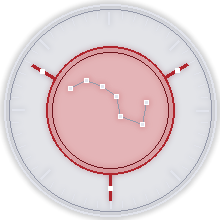
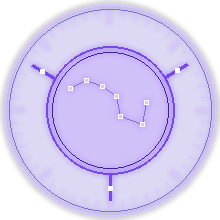
Quyền: đổi màu chủ đạo tím-lam, bàn tay X nhuộm tím (bàn tay quỷ), bỏ Minh Vương khỏi Quyền và chuyển sang Trượng (phím C)
Claude-Session: https://claude.ai/code/session_01QQj46rsF4z2ee4KuP8oJja

diff --git a/game/index.html b/game/index.html
@@ -1894,9 +1894,9 @@ function sfx(n,vol,gap){if(MUTE||!AC||AC.state!=='running'||!SBUF[n])return;cons
  const src=AC.createBufferSource();src.buffer=SBUF[n];const g=AC.createGain();g.gain.value=Math.min(1,vol==null?0.5:vol);src.connect(g);g.connect(AC._g);s.live++;voices++;src.onended=()=>{s.live--;voices--;try{g.disconnect()}catch(e){}};src.start()}
 const preDecode=i=>{try{i.decode&&i.decode().catch(()=>{})}catch(e){}};
 /* hiệu ứng gói Wuxia */
-const VFX={};['arc_sheet','wanjian_sword','petal','rulai_crater','taiji','ink_slash','ink_impact','ink_trail','bagua_vang','bua_vang','bagua_do','bua_do','qy_an','rulai_hand','rulai_dust','rulai_rock','van_vang'].forEach(n=>{const i=new Image();i.src='assets/vfx/'+n+'.png';preDecode(i);VFX[n]=i});
+const VFX={};['arc_sheet','wanjian_sword','petal','rulai_crater','taiji','ink_slash','ink_impact','ink_trail','bagua_vang','bua_vang','bagua_do','bua_do','qy_an','rulai_hand','rulai_dust','rulai_rock','van_vang','qy_van','qy_hand','qy_crater','qy_dust','qy_rock'].forEach(n=>{const i=new Image();i.src='assets/vfx/'+n+'.png';preDecode(i);VFX[n]=i});
 // VFX Tôn Ngộ Không (PixelLab pro): lưới đều, khung theo hàng; px,py = tâm (người/điểm nện/điểm trúng)
-const SPX={hl_petals:{w:338,h:183,c:8,n:23,px:-74,py:131},hl_decoy:{w:85,h:106,c:8,n:25,px:40,py:95},hl_heal:{w:304,h:179,c:8,n:28,px:149,py:89},th_bind:{w:412,h:124,c:6,n:27,px:57,py:85},th_dash:{w:406,h:183,c:6,n:20,px:57,py:150},th_eclipse:{w:465,h:168,c:6,n:28,px:57,py:113},pm_bell:{w:202,h:225,c:8,n:34,px:101,py:209},pm_palm:{w:293,h:207,c:8,n:17,px:11,py:158},qy_palm:{w:293,h:207,c:8,n:17,px:11,py:158},pm_guard:{w:312,h:321,c:8,n:25,px:159,py:307},pm_slash:{w:96,h:96,c:4,n:8,px:48,py:48},dq_cleave:{w:272,h:326,c:8,n:16,px:3,py:301},dq_triple:{w:285,h:338,c:8,n:23,px:-13,py:301},dq_ring:{w:460,h:232,c:6,n:17,px:230,py:141},wk_arc:{w:187,h:302,c:3,n:9,px:66,py:246},wk_puff2:{w:35,h:24,c:3,n:7,px:20,py:17},wk_slash:{w:192,h:193,c:3,n:9,px:75,py:107},wk_thrust:{w:232,h:80,c:3,n:7,px:29,py:19},wk_hit:{w:85,h:84,c:3,n:9,px:40,py:43},
+const SPX={hl_petals:{w:338,h:183,c:8,n:23,px:-74,py:131},hl_decoy:{w:85,h:106,c:8,n:25,px:40,py:95},hl_heal:{w:304,h:179,c:8,n:28,px:149,py:89},th_bind:{w:412,h:124,c:6,n:27,px:57,py:85},th_dash:{w:406,h:183,c:6,n:20,px:57,py:150},th_eclipse:{w:465,h:168,c:6,n:28,px:57,py:113},pm_bell:{w:202,h:225,c:8,n:34,px:101,py:209},qy_bell:{w:202,h:225,c:8,n:34,px:101,py:209},pm_palm:{w:293,h:207,c:8,n:17,px:11,py:158},qy_palm:{w:293,h:207,c:8,n:17,px:11,py:158},pm_guard:{w:312,h:321,c:8,n:25,px:159,py:307},pm_slash:{w:96,h:96,c:4,n:8,px:48,py:48},dq_cleave:{w:272,h:326,c:8,n:16,px:3,py:301},dq_triple:{w:285,h:338,c:8,n:23,px:-13,py:301},dq_ring:{w:460,h:232,c:6,n:17,px:230,py:141},wk_arc:{w:187,h:302,c:3,n:9,px:66,py:246},wk_puff2:{w:35,h:24,c:3,n:7,px:20,py:17},wk_slash:{w:192,h:193,c:3,n:9,px:75,py:107},wk_thrust:{w:232,h:80,c:3,n:7,px:29,py:19},wk_hit:{w:85,h:84,c:3,n:9,px:40,py:43},
  wk_stomp:{w:159,h:176,c:8,n:8,px:80,py:112},wk_roar:{w:260,h:275,c:8,n:8,px:41,py:194},wk_summon:{w:251,h:259,c:8,n:8,px:125,py:202},wk_whirl:{w:197,h:213,c:8,n:8,px:101,py:121},wk_cloud:{w:140,h:104,c:4,n:10,px:70,py:52},wk_puff:{w:97,h:92,c:3,n:9,px:52,py:44},
  sw_a:{w:140,h:45,c:3,n:8,px:68,py:44},swhit:{w:64,h:64,c:3,n:6,px:32,py:32},k5a_front:{w:82,h:103,c:3,n:6,px:-36,py:106},k5b_front:{w:124,h:163,c:3,n:6,px:22,py:151},wanjian_sword:{w:96,h:96,c:1,n:1,px:48,py:48},set_ring:{w:190,h:80,c:4,n:12,px:95,py:40},set_bolt:{w:80,h:240,c:4,n:12,px:40,py:228},set_bolt_vang:{w:80,h:240,c:4,n:12,px:40,py:228},qy_hit:{w:64,h:64,c:3,n:8,px:32,py:32},set_no_vang:{w:240,h:140,c:4,n:12,px:120,py:100},set_bolt_do:{w:80,h:240,c:4,n:12,px:40,py:228},set_no_do:{w:240,h:140,c:4,n:12,px:120,py:100},set_len_do:{w:240,h:230,c:4,n:12,px:120,py:208},k5c_pro:{w:196,h:202,c:4,n:15,px:89,py:104},k5c_behind:{w:360,h:224,c:4,n:15,px:180,py:154},k5c_front:{w:360,h:224,c:4,n:15,px:180,py:154},hv_mark:{w:128,h:66,c:5,n:17,px:64,py:33},hv_vortex_b:{w:191,h:92,c:4,n:14,px:96,py:98},hv_vortex_f:{w:209,h:100,c:6,n:28,px:106,py:100},hv_ring:{w:137,h:131,c:5,n:19,px:69,py:83},tx_in:{w:365,h:604,c:11,n:30,px:215,py:520},tx_loop:{w:309,h:278,c:13,n:60,px:155,py:196},tx_out:{w:304,h:269,c:11,n:11,px:153,py:187},vk_e:{w:838,h:316,c:4,n:46,px:198,py:213},hp_guard:{w:128,h:128,c:1,n:1,px:64,py:64},hp_imp:{w:48,h:48,c:8,n:8,px:24,py:24},hp_star:{w:64,h:64,c:10,n:10,px:32,py:32},wx_slash:{w:96,h:96,c:4,n:8,px:48,py:48},zs1:{w:101,h:87,c:3,n:9,px:44,py:102},zs2:{w:108,h:122,c:3,n:7,px:32,py:117},zs3:{w:87,h:88,c:3,n:9,px:30,py:90},slash_el:{w:48,h:80,c:3,n:8,px:24,py:40},swqi:{w:64,h:48,c:3,n:6,px:36,py:24},sw_arc:{w:96,h:96,c:3,n:7,px:46,py:49},
  cA_behind:{w:132,h:128,c:3,n:6,px:74,py:136},cA_front:{w:73,h:14,c:2,n:4,px:-39,py:57},cB_behind:{w:90,h:124,c:3,n:6,px:17,py:130},cB_front:{w:104,h:162,c:3,n:6,px:13,py:148},cC_behind:{w:151,h:23,c:3,n:7,px:76,py:62},cC_front:{w:191,h:72,c:3,n:7,px:100,py:65},sw_b:{w:62,h:90,c:3,n:9,px:6,py:79},sw_c:{w:176,h:148,c:4,n:10,px:88,py:74}};  // combo kiếm: cA/cB/cC theo ảnh chủ game, lớp behind (sau người) + front (trước người), mốc = chân
@@ -2342,25 +2342,21 @@ const WEAPONS={
   /* Thiên Cương Môn (25/11): động tác Quyền v2 (A tay xa, B tay gần, C quét chân), VFX dùng lại tài nguyên có sẵn (vệt wx_slash, vành k5c_pro dẹt, vòng ring, đạn crescent). Không PixelLab. Số liệu TẠM, chưa cân bằng. */
   {id:'y0',name:'Thiên Cương Quyền',g:'拳',kind:'basic',cd:0.45,range:85,desc:'Liên quyền: tay trước đấm thẳng, tay sau đấm xoay hông, nhát thứ ba hạ thấp quét chân quét ngang mọi phía.',
    cast(tg,s){startFist(tg,s)}},
-  {id:'y1',hotkey:'Q',power:22,name:'Cương Khí Phá Không',g:'氣',kind:'active',cd:5,mp:16,range:340,desc:'Tung quyền khí trắng xuyên qua năm kẻ địch trước mặt, đẩy lùi.',up:'+25% sát thương, -6% hồi chiêu',
+  {id:'y1',hotkey:'Q',power:22,name:'Cương Khí Phá Không',g:'氣',kind:'active',cd:5,mp:16,range:340,desc:'Tung quyền khí tím xuyên qua năm kẻ địch trước mặt, đẩy lùi.',up:'+25% sát thương, -6% hồi chiêu',
    cast(tg,l){const a=angTo(tg),dmg=this.power*lv(l)*pw();P.avAnim='attack';swing(a,1);sfx('sword_wave',0.45,0.1);
-    later(0.22,()=>{if(vok('qy_hit')){fx({k:'sp',s:'qy_hit',x:P.x+Math.cos(a)*34,y:P.y-22+Math.sin(a)*34,sc:(1.5)*1.45,T:0.26,al:1});for(let i=1;i<=4;i++)later(i*0.07,()=>fx({k:'sp',s:'qy_hit',x:P.x+Math.cos(a)*(34+i*62),y:P.y-22+Math.sin(a)*(34+i*62),sc:(0.7+i*0.12)*1.45,T:0.2,al:0.7}),null)}shoot(P.x+Math.cos(a)*30,P.y-18+Math.sin(a)*30,a,560,{dmg,pierce:5,r:26,life:0.55,kind:'crescent',c:'#ffe6de',o:H({kb:90,stop:0.03})});G.shake=Math.max(G.shake||0,3)},'h')}},
+    later(0.22,()=>{if(vok('qy_hit')){fx({k:'sp',s:'qy_hit',x:P.x+Math.cos(a)*34,y:P.y-22+Math.sin(a)*34,sc:(1.5)*1.45,T:0.26,al:1});for(let i=1;i<=4;i++)later(i*0.07,()=>fx({k:'sp',s:'qy_hit',x:P.x+Math.cos(a)*(34+i*62),y:P.y-22+Math.sin(a)*(34+i*62),sc:(0.7+i*0.12)*1.45,T:0.2,al:0.7}),null)}shoot(P.x+Math.cos(a)*30,P.y-18+Math.sin(a)*30,a,560,{dmg,pierce:5,r:26,life:0.55,kind:'crescent',c:'#d8ccff',o:H({kb:90,stop:0.03})});G.shake=Math.max(G.shake||0,3)},'h')}},
   {id:'y2',hotkey:'F',power:30,name:'Chấn Địa Quyền',g:'震',kind:'active',cd:9,mp:20,range:200,desc:'Hạ thấp người đấm xuống đất, sóng chấn lan ra hất văng và làm choáng mọi quái trước mặt.',up:'+25% sát thương, -6% hồi chiêu',
    cast(tg,l){const a=angTo(tg),dmg=this.power*lv(l)*pw();P.avAnim='attack3';swing(a,1);sfx('rulai_impact',0.5,0.1);
     later(0.3,()=>{const cx=P.x+Math.cos(a)*95,cy=P.y+Math.sin(a)*95;circ(cx,cy,165*Ar(),dmg,H({kb:210,stun:0.4}),null);fx({k:'ring',x:cx,y:cy,r0:20,r1:165,c:'#ffffff',T:0.35});fx({k:'ring',x:cx,y:cy,r0:10,r1:120,c:'#b8323a',T:0.45});if(vok('qy_an'))fx({k:'img',n:'qy_an',x:cx,y:cy+4,s0:0.35,s1:165*2.3*Ar()/220,sy:0.55,spin:1.3,T:0.95,al:0.9,gr:1});if(vok('qy_hit')){fx({k:'sp',s:'qy_hit',x:cx,y:cy-6,sc:(2.4)*1.45,T:0.3,al:1});for(let i=0;i<6;i++){const an=i*TAU/6+0.3;later(0.04*i,()=>fx({k:'sp',s:'qy_hit',x:cx+Math.cos(an)*100*Ar(),y:cy+Math.sin(an)*55*Ar(),sc:(1.1)*1.45,T:0.24,al:0.85}),null)}}if(vok('wk_crack'))fx({k:'img',n:'wk_crack',x:cx,y:cy+8,s0:1.2,s1:1.7,sy:1,T:0.8,al:0.9,gr:1});G.shake=Math.max(G.shake||0,10)},'h')}},
-  {id:'y3',hotkey:'C',power:30,name:'Minh Vương Chưởng Ấn',g:'王',kind:'active',cd:18,mp:32,range:380,desc:'Minh Vương hiện thân sau lưng (hình Kim Cương Tự của gói Wuxia), rồi trong 3 giây chưởng ấn vàng bay ra liên tục: mỗi 0,22 giây một chưởng xuyên qua 3 kẻ địch, đẩy lùi.',up:'+25% sát thương, +0,5 giây',
-   /* 25/11 (chủ game: "Minh Vương hiện ra rồi các bàn tay/chưởng ấn bay ra liên tục", skill sát thương): pm_guard làm Minh Vương, đạn kind:'palmseal' vẽ khung pm_palm bay theo hướng đánh. Số liệu TẠM. */
-   cast(tg,l){const dmg=this.power*lv(l)*pw(),dur=3+0.5*(l-1);notice('Minh Vương Chưởng Ấn');P.inv=Math.max(P.inv,0.5);sfx('rulai_fall',0.5,0.1);dqFx('pm_guard',P.x,P.y+8,0,1.05,dur+0.4,0,24,{follow:1,noRot:1,gr:1,al:0.9});let k=0;
-    for(let t=0.7;t<=dur+0.4;t+=0.22){const kk=k++;later(t,()=>{const e=nearest(P.x,P.y,440),a=angTo(e||tg)+rnd(-0.1,0.1);P.avAnim=kk%2?'attack2':'attack';swing(a,kk%2?-1:1);P.runSwing=true;if(Math.abs(Math.cos(a))>0.15)P.facing=Math.cos(a)>=0?1:-1;shoot(P.x+Math.cos(a)*34,P.y-36+Math.sin(a)*20,a,500,{dmg,pierce:3,r:34,life:0.8,kind:'palmseal',o:H({kb:120,stop:0.03})});if(vok('qy_hit'))fx({k:'sp',s:'qy_hit',x:P.x+Math.cos(a)*40,y:P.y-36+Math.sin(a)*20,sc:1.1*1.45,T:0.18,al:0.9});if(kk%3===0)G.shake=Math.max(G.shake||0,3)},'h')}}},
-  {id:'kimchung',start:1,name:'Kim Chung Hộ Thể',g:'鐘',kind:'passive',desc:'Khi bị đánh (hồi 12 giây): chuông vàng Kim Cương Tự úp quanh người 3 giây, giảm 45% sát thương nhận vào, phản lại 50% sát thương cho kẻ đánh, và chấn lùi quái xung quanh.'},
+  {id:'kimchung',start:1,name:'Kim Chung Hộ Thể',g:'鐘',kind:'passive',desc:'Khi bị đánh (hồi 12 giây): chuông tím úp quanh người 3 giây, giảm 45% sát thương nhận vào, phản lại 50% sát thương cho kẻ đánh, và chấn lùi quái xung quanh.'},
   {id:'y6',hotkey:'X',power:34,name:'Thiên Cương Liên Hoàn',g:'罡',kind:'ult',cd:24,range:240,desc:'Dồn cương khí tung loạt quyền liên hoàn trong 3 giây: mỗi 0,2 giây một cú đấm quét vòng cung trước mặt, đẩy lùi quái gần nhất. Kết thúc bằng một chưởng ấn cương khí khổng lồ từ trên trời hạ xuống chỗ đông quái nhất (Như Lai thần chưởng), in vết bàn tay xuống đất, đá và bụi bắn tung (gấp 2,4 lần một cú đấm, choáng 0,6 giây).',up:'+25% sát thương, +0,5 giây',
    cast(tg,l){const dmg=this.power*lv(l)*pw(),dur=3+0.5*(l-1);notice('Thiên Cương Liên Hoàn');P.inv=Math.max(P.inv,0.4);sfx('rulai_fall',0.45,0.1);let k=0;if(vok('qy_an'))fx({k:'img',n:'qy_an',x:P.x,y:P.y+6,s0:0.3,s1:0.62,sy:0.5,spin:2.4,T:dur+0.3,al:0.85,gr:1});
-    for(let t=0.2;t<=dur;t+=0.2){const kk=k++;later(t,()=>{const e=nearest(P.x,P.y,300),a2=angTo(e||tg);P.avAnim=kk%2?'attack2':'attack';swing(a2,kk%2?-1:1);P.runSwing=true;if(Math.abs(Math.cos(a2))>0.15)P.facing=Math.cos(a2)>=0?1:-1;arc(P.x,P.y-8,a2,150*Ar(),1.7,dmg*0.3,H({kb:70,stop:0.02,nofx:1}),'#fff0e8',kk%2?-1:1);if(vok('qy_hit'))fx({k:'sp',s:'qy_hit',x:P.x+Math.cos(a2)*(48+rnd(-8,14)),y:P.y-30+Math.sin(a2)*24+rnd(-10,10),sc:(0.9+Math.random()*0.4)*1.45,T:0.2,al:0.95});if(kk%3===0){fx({k:'ring',x:P.x+Math.cos(a2)*50,y:P.y-10+Math.sin(a2)*50,r0:10,r1:60,c:'#ffd0c8',T:0.2});G.shake=Math.max(G.shake||0,3)}},'h')}
+    for(let t=0.2;t<=dur;t+=0.2){const kk=k++;later(t,()=>{const e=nearest(P.x,P.y,300),a2=angTo(e||tg);P.avAnim=kk%2?'attack2':'attack';swing(a2,kk%2?-1:1);P.runSwing=true;if(Math.abs(Math.cos(a2))>0.15)P.facing=Math.cos(a2)>=0?1:-1;arc(P.x,P.y-8,a2,150*Ar(),1.7,dmg*0.3,H({kb:70,stop:0.02,nofx:1}),'#e4dcff',kk%2?-1:1);if(vok('qy_hit'))fx({k:'sp',s:'qy_hit',x:P.x+Math.cos(a2)*(48+rnd(-8,14)),y:P.y-30+Math.sin(a2)*24+rnd(-10,10),sc:(0.9+Math.random()*0.4)*1.45,T:0.2,al:0.95});if(kk%3===0){fx({k:'ring',x:P.x+Math.cos(a2)*50,y:P.y-10+Math.sin(a2)*50,r0:10,r1:60,c:'#b8a4ff',T:0.2});G.shake=Math.max(G.shake||0,3)}},'h')}
     /* 25/11 (chủ game: "thấy có vfx bàn tay"): đòn kết = CHƯỞNG ẤN cương khí khổng lồ (bàn tay Phật gói Wuxia nhuộm đỏ chu sa - trắng, `qy_palm`) ép xuống chỗ đông quái nhất; sát thương 2,4 lần một cú đấm, đẩy lùi, choáng 0,6 s */
-    later(dur+0.25,()=>{const c=densest(P.x,P.y,340)||{x:P.x+Math.cos(angTo(tg))*180,y:P.y+Math.sin(angTo(tg))*180};const a3=Math.atan2(c.y-P.y,c.x-P.x);P.avAnim='attack';swing(a3,1);P.av=P.avTotal=1.45;P.runSwing=false;P._xp={t0:G.t};if(Math.abs(Math.cos(a3))>0.15)P.facing=Math.cos(a3)>=0?1:-1;sfx('rulai_fall',0.6,0.1);/* 25/11 (chủ game): thay vòng vàng bằng chữ VẠN (卍) hiện trên đầu lúc giơ tay, sau đó đập tay thì Như Lai Thần Chưởng hiện */if(vok('van_vang'))fx({k:'img',n:'van_vang',x:P.x,y:P.y-122,s0:1,s1:1,sy:1,T:0.95,al:1});for(const d of[0,0.22])later(d,()=>{for(let i=0;i<6;i++)part(P.x+rnd(-26,26),P.y-60+rnd(-10,10),rnd(-10,10),rnd(-70,-30),rnd(0.35,0.6),rnd(3,5),'rgba(255,214,120,.9)',0)},'h');
+    later(dur+0.25,()=>{const c=densest(P.x,P.y,340)||{x:P.x+Math.cos(angTo(tg))*180,y:P.y+Math.sin(angTo(tg))*180};const a3=Math.atan2(c.y-P.y,c.x-P.x);P.avAnim='attack';swing(a3,1);P.av=P.avTotal=1.45;P.runSwing=false;P._xp={t0:G.t};if(Math.abs(Math.cos(a3))>0.15)P.facing=Math.cos(a3)>=0?1:-1;sfx('rulai_fall',0.6,0.1);/* 25/11 (chủ game): thay vòng vàng bằng chữ VẠN (卍) hiện trên đầu lúc giơ tay, sau đó đập tay thì Như Lai Thần Chưởng hiện */if(vok('qy_van'))fx({k:'img',n:'qy_van',x:P.x,y:P.y-122,s0:1,s1:1,sy:1,T:0.95,al:1});for(const d of[0,0.22])later(d,()=>{for(let i=0;i<6;i++)part(P.x+rnd(-26,26),P.y-60+rnd(-10,10),rnd(-10,10),rnd(-70,-30),rnd(0.35,0.6),rnd(3,5),'rgba(176,140,255,.9)',0)},'h');
      /* 25/11 (chủ game: chưởng ấn từ trên trời rót xuống, rồi bàn tay lún sâu dưới đất): zone qypalm = bàn tay đỏ từ từ hạ 1,1 s (to dần, bóng và vòng báo trên đất), ép xuống, lún sâu bị mặt đất cắt, hố nứt + vết nứt đỏ lan ra */
      addZone({kind:'qypalm',T:1.9,src:'h',x:c.x,y:c.y,rot:a3});
-     later(0.95,()=>{sfx('rulai_impact',0.85,0.1);G.flash=Math.max(G.flash||0,0.2);burst(c.x,c.y-20,'#ffd860',46);if(G.decals.length<40)G.decals.push({img:'rulai_crater',x:c.x,y:c.y-5,w:422,h:236,t:0,T:2.9,pop:1});burst(c.x,c.y-6,'#d8c8a0',30);circ(c.x,c.y,200*Ar(),dmg*2.4,H({kb:300,stun:0.6,stop:0.05}),null);fx({k:'ring',x:c.x,y:c.y+14,r0:20,r1:200,c:'#ffc84a',T:0.45});fx({k:'ring',x:c.x,y:c.y+14,r0:10,r1:150,c:'#ab7d4f',T:0.5});G.shake=Math.max(G.shake||0,14)},'h')},'h')}}
+     later(0.95,()=>{sfx('rulai_impact',0.85,0.1);G.flash=Math.max(G.flash||0,0.2);burst(c.x,c.y-20,'#a884ff',46);if(G.decals.length<40)G.decals.push({img:'qy_crater',x:c.x,y:c.y-5,w:422,h:236,t:0,T:2.9,pop:1});burst(c.x,c.y-6,'#8068c8',30);circ(c.x,c.y,200*Ar(),dmg*2.4,H({kb:300,stun:0.6,stop:0.05}),null);fx({k:'ring',x:c.x,y:c.y+14,r0:20,r1:200,c:'#9a70ff',T:0.45});fx({k:'ring',x:c.x,y:c.y+14,r0:10,r1:150,c:'#4c3a9a',T:0.5});G.shake=Math.max(G.shake||0,14)},'h')},'h')}}
  ]},
  dao:{name:'Đao',g:'刀',role:'Bạo kích, diện rộng',tr:'Hỏa đao nặng, chém xuyên, quét rộng',kit:[
   /* Trảm Yêu Môn (24/11): VFX gói Wuxia Xích Diễm Đao Môn (xuất từ Godot: dq_cleave, dq_triple, dq_ring). Hướng bake: đông; dqFx lật theo hướng chém. */
@@ -2393,6 +2389,10 @@ const WEAPONS={
     later(0.38,()=>{const cx=P.x+Math.cos(a)*165,cy=P.y+Math.sin(a)*165;circ(cx,cy,155*Ar(),dmg,H({kb:260,stun:0.45}),null);G.shake=Math.max(G.shake||0,12)},'h')}},
   {id:'p3',name:'Hộ Thể Kim Cương',g:'護',kind:'active',cd:12,mp:16,range:140,desc:'Tự kích hoạt khi bị vây: sóng vàng đẩy lùi quái sát người.',up:'+25% sát thương',
    cast(tg,l){swing(0,1);fx({k:'ring',x:P.x,y:P.y,r0:20,r1:130,c:'#ffd36a',T:0.35});circ(P.x,P.y,125*Ar(),14*lv(l)*pw(),H({kb:230}),null)}},
+  {id:'p4',hotkey:'C',power:30,name:'Minh Vương Chưởng Ấn',g:'王',kind:'active',cd:18,mp:32,range:380,desc:'Minh Vương hiện thân sau lưng (hình Kim Cương Tự của gói Wuxia), rồi trong 3 giây chưởng ấn vàng bay ra liên tục: mỗi 0,22 giây một chưởng xuyên qua 3 kẻ địch, đẩy lùi.',up:'+25% sát thương, +0,5 giây',
+   /* 25/11 (chủ game: "Minh Vương hiện ra rồi các bàn tay/chưởng ấn bay ra liên tục", skill sát thương): pm_guard làm Minh Vương, đạn kind:'palmseal' vẽ khung pm_palm bay theo hướng đánh. Số liệu TẠM. */
+   cast(tg,l){const dmg=this.power*lv(l)*pw(),dur=3+0.5*(l-1);notice('Minh Vương Chưởng Ấn');P.inv=Math.max(P.inv,0.5);sfx('rulai_fall',0.5,0.1);dqFx('pm_guard',P.x,P.y+8,0,1.05,dur+0.4,0,24,{follow:1,noRot:1,gr:1,al:0.9});let k=0;
+    for(let t=0.7;t<=dur+0.4;t+=0.22){const kk=k++;later(t,()=>{const e=nearest(P.x,P.y,440),a=angTo(e||tg)+rnd(-0.1,0.1);P.avAnim=kk%2?'attack2':'attack';swing(a,kk%2?-1:1);P.runSwing=true;if(Math.abs(Math.cos(a))>0.15)P.facing=Math.cos(a)>=0?1:-1;shoot(P.x+Math.cos(a)*34,P.y-36+Math.sin(a)*20,a,500,{dmg,pierce:3,r:34,life:0.8,kind:'palmseal',o:H({kb:120,stop:0.03})});if(vok('qy_hit'))fx({k:'sp',s:'qy_hit',x:P.x+Math.cos(a)*40,y:P.y-36+Math.sin(a)*20,sc:1.1*1.45,T:0.18,al:0.9});if(kk%3===0)G.shake=Math.max(G.shake||0,3)},'h')}}},
   {id:'p6',hotkey:'X',power:40,name:'Bất Động Minh Vương Thân',g:'王',kind:'ult',cd:26,range:240,desc:'Minh Vương hiện thân hộ pháp: miễn thương 3,5 giây, mỗi 0,7 giây chấn một vòng đẩy lùi và làm choáng ngắn quái xung quanh.',up:'+25% sát thương, +0,5 giây',
    cast(tg,l){const dmg=this.power*lv(l)*pw(),dur=3.5+0.5*(l-1);P.inv=Math.max(P.inv,dur);notice('Bất Động Minh Vương Thân');dqFx('pm_guard',P.x,P.y+8,0,1.05,dur,0,24,{follow:1,noRot:1,gr:1,al:0.9});sfx('rulai_fall',0.5,0.1);
     for(let t=0.5;t<dur;t+=0.7)later(t,()=>{circ(P.x,P.y,200*Ar(),dmg,H({kb:150,stun:0.2}),null);fx({k:'ring',x:P.x,y:P.y,r0:30,r1:200,c:'#ffe08a',T:0.4});G.shake=Math.max(G.shake||0,5)},'h')}}
@@ -2917,7 +2917,7 @@ function collect(o){
 const xpNeed=()=>Math.round(10+G.level*7+G.level*G.level*0.8);
 function heal(v,quiet){const b=P.hp;P.hp=Math.min(S.hp,P.hp+v);if(!quiet&&P.hp-b>=1)num(P.x,P.y-60,'+'+Math.round(P.hp-b),'h')}
 /* 25/11 nội tại Quyền Kim Chung Hộ Thể (pm_bell): bị đánh thì úp chuông 3 s (giảm 45% sát thương, phản 50%), chấn lùi quái quanh người; hồi 12 s */
-function kimChung(){P.kcUntil=G.t+3;P.kcNext=G.t+12;dqFx('pm_bell',P.x,P.y+6,0,0.95,3,0,33,{follow:1,noRot:1,al:0.92});sfx('rulai_impact',0.5,0.08);circ(P.x,P.y,150*Ar(),14*pw(),H({kb:200,stun:0.18}),null);fx({k:'ring',x:P.x,y:P.y,r0:20,r1:150,c:'#ffe08a',T:0.4});G.shake=Math.max(G.shake||0,5)}
+function kimChung(){P.kcUntil=G.t+3;P.kcNext=G.t+12;dqFx('qy_bell',P.x,P.y+6,0,0.95,3,0,33,{follow:1,noRot:1,al:0.92});sfx('rulai_impact',0.5,0.08);circ(P.x,P.y,150*Ar(),14*pw(),H({kb:200,stun:0.18}),null);fx({k:'ring',x:P.x,y:P.y,r0:20,r1:150,c:'#b49cff',T:0.4});G.shake=Math.max(G.shake||0,5)}
 function hurtPlayer(d,src){
  if(P.inv>0||P.hidden>0||P.transT>0||G.state!=='play')return;
  if(G.training&&G.trGod)return;
@@ -3571,16 +3571,16 @@ function drawZone(z){
   c.save();c.translate(z.x,z.y);c.scale(1,0.4);c.globalAlpha=0.35*Math.min(1,k*1.4)*(z.t<FALL?1:al);c.fillStyle='#0b1226';c.beginPath();c.arc(0,0,22+60*k,0,TAU);c.fill();c.restore();
   if(al>0.01&&CKI.complete&&CKI.naturalWidth){c.save();c.globalAlpha=al;c.imageSmoothingEnabled=false;c.translate(Math.round(z.x),Math.round(ty));c.scale(1.3,1.3);c.drawImage(CKI,-CKI.naturalWidth/2,-CKI.naturalHeight);c.restore()}
   else if(al>0.01){c.save();c.globalAlpha=al;c.translate(z.x,ty);c.scale(sc,sc);c.rotate(Math.PI/2);c.translate(-(w[0]-w[2]),0);drawWeaponOutline(c,art,1.2/sc);drawWeaponArt(c,art,0,0,1);c.restore()}}
- else if(z.kind==='qypalm'&&vok('rulai_hand')){/* 25/11 NHƯ LAI THẦN CHƯỞNG (gói Wuxia 04_Rulai): chủ game chê "không giống": bản gốc chỉ thấy bàn tay ~0,2 s cuối và nằm ngang. Nay: cột hào quang vàng từ trời, bàn tay VÀNG khổng lồ dựng đứng (ngón hướng lên) hiện sớm, lơ lửng to dần rồi giáng xuống; chạm đất: chớp vàng, vết chưởng in sáng, đá và bụi bắn ra */const D=0.95,tt=z.t;
-  if(tt<D){c.save();c.translate(z.x,z.y);c.scale(1,0.4);c.globalAlpha=0.4*Math.pow(tt/D,3);c.fillStyle='#2a1200';c.beginPath();c.arc(0,0,40+190*Math.pow(tt/D,3),0,TAU);c.fill();c.globalCompositeOperation='lighter';c.globalAlpha=0.6*(0.3+0.7*(1-Math.pow(tt/D,3)));c.strokeStyle='#ffc84a';c.lineWidth=3;c.beginPath();c.arc(0,0,220+80*(1-Math.pow(tt/D,3)),0,TAU);c.stroke();c.restore()}
-  if(tt<D+0.3){const kb=tt<D?Math.min(1,tt/0.5):1-(tt-D)/0.3;c.save();c.globalCompositeOperation='lighter';const bw=260+80*kb,NS=14,sw=bw/NS;for(let i=0;i<NS;i++){const u=(i+.5)/NS*2-1,f=Math.pow(1-Math.abs(u),1.6),gr=c.createLinearGradient(0,z.y-760,0,z.y);gr.addColorStop(0,'rgba(255,214,120,0)');gr.addColorStop(0.55,'rgba(255,214,120,'+(0.13*kb*f)+')');gr.addColorStop(1,'rgba(255,232,170,'+(0.30*kb*f)+')');c.fillStyle=gr;c.fillRect(z.x-bw/2+i*sw,z.y-760,sw+0.6,760)}c.restore()}
+ else if(z.kind==='qypalm'&&vok('qy_hand')){/* 25/11 BÀN TAY QUỶ (gói Wuxia 04_Rulai): chủ game chê "không giống": bản gốc chỉ thấy bàn tay ~0,2 s cuối và nằm ngang. Nay: cột hào quang vàng từ trời, bàn tay VÀNG khổng lồ dựng đứng (ngón hướng lên) hiện sớm, lơ lửng to dần rồi giáng xuống; chạm đất: chớp vàng, vết chưởng in sáng, đá và bụi bắn ra */const D=0.95,tt=z.t;
+  if(tt<D){c.save();c.translate(z.x,z.y);c.scale(1,0.4);c.globalAlpha=0.4*Math.pow(tt/D,3);c.fillStyle='#10061c';c.beginPath();c.arc(0,0,40+190*Math.pow(tt/D,3),0,TAU);c.fill();c.globalCompositeOperation='lighter';c.globalAlpha=0.6*(0.3+0.7*(1-Math.pow(tt/D,3)));c.strokeStyle='#9a70ff';c.lineWidth=3;c.beginPath();c.arc(0,0,220+80*(1-Math.pow(tt/D,3)),0,TAU);c.stroke();c.restore()}
+  if(tt<D+0.3){const kb=tt<D?Math.min(1,tt/0.5):1-(tt-D)/0.3;c.save();c.globalCompositeOperation='lighter';const bw=260+80*kb,NS=14,sw=bw/NS;for(let i=0;i<NS;i++){const u=(i+.5)/NS*2-1,f=Math.pow(1-Math.abs(u),1.6),gr=c.createLinearGradient(0,z.y-760,0,z.y);gr.addColorStop(0,'rgba(170,120,255,0)');gr.addColorStop(0.55,'rgba(170,120,255,'+(0.13*kb*f)+')');gr.addColorStop(1,'rgba(214,190,255,'+(0.30*kb*f)+')');c.fillStyle=gr;c.fillRect(z.x-bw/2+i*sw,z.y-760,sw+0.6,760)}c.restore()}
   if(tt<D+0.26){let sx,sy,al,py;if(tt<D){const a=Math.min(1,tt/0.7),ea=a*a*(3-2*a),bb=tt<0.7?0:(tt-0.7)/(D-0.7),eb=bb*bb*bb,y0=z.y-430+120*ea,sc0=1.45+0.45*ea;py=y0+(z.y-48-y0)*eb;sx=sy=sc0+(2.4-sc0)*eb;al=Math.min(1,tt/0.3)*0.88+0.12*eb}else{const q=Math.min(1,(tt-D)/0.18),eo=1-Math.pow(1-q,3);sx=2.4+0.25*eo;sy=2.4-1.55*eo;al=Math.max(0,1-(tt-D)/0.26);py=z.y-48}
-   c.save();c.globalCompositeOperation='lighter';const gg=c.createRadialGradient(z.x,py,10,z.x,py,170*Math.max(sx,sy));gg.addColorStop(0,'rgba(255,210,100,'+(0.34*al)+')');gg.addColorStop(1,'rgba(255,170,40,0)');c.fillStyle=gg;c.fillRect(z.x-520,py-520,1040,1040);c.restore();
-   c.save();c.globalAlpha=al;c.imageSmoothingEnabled=false;c.translate(Math.round(z.x),Math.round(py));c.scale(sx,sy);c.drawImage(VFX.rulai_hand,-128,-128);c.restore()}
+   c.save();c.globalCompositeOperation='lighter';const gg=c.createRadialGradient(z.x,py,10,z.x,py,170*Math.max(sx,sy));gg.addColorStop(0,'rgba(160,110,255,'+(0.34*al)+')');gg.addColorStop(1,'rgba(90,50,200,0)');c.fillStyle=gg;c.fillRect(z.x-520,py-520,1040,1040);c.restore();
+   c.save();c.globalAlpha=al;c.imageSmoothingEnabled=false;c.translate(Math.round(z.x),Math.round(py));c.scale(sx,sy);c.drawImage(VFX.qy_hand,-128,-128);c.restore()}
   if(tt>=D){const q=tt-D,cx=z.x,cy=z.y;c.save();c.imageSmoothingEnabled=false;
-   {const gl=Math.max(0,1-q/0.9);if(gl>0.01){c.save();c.globalCompositeOperation='lighter';c.translate(cx,cy-5);c.scale(1,0.56);const g3=c.createRadialGradient(0,0,10,0,0,230);g3.addColorStop(0,'rgba(255,215,110,'+(0.62*gl)+')');g3.addColorStop(1,'rgba(255,150,30,0)');c.fillStyle=g3;c.beginPath();c.arc(0,0,230,0,TAU);c.fill();c.restore()}}
-   if(vok('rulai_rock')){const p=Math.min(1,q/0.55),ep=1-(1-p)*(1-p),al=1-Math.max(0,Math.min(1,(q-0.18)/0.55));if(al>0.01)for(let i=0;i<28;i++){const an=TAU*i/28,d=(110+(i%5)*25)*ep,sc=0.55+(i%4)*0.12;c.save();c.globalAlpha=al;c.translate(cx+Math.cos(an)*d,cy-35+13+Math.sin(an)*d*0.6);c.rotate(an+3*p);c.scale(sc,sc);c.drawImage(VFX.rulai_rock,-24,-24);c.restore()}}
-   if(vok('rulai_dust')){const p=Math.min(1,q/0.75),ep=1-(1-p)*(1-p),al=0.8*(1-Math.max(0,Math.min(1,(q-0.15)/0.75)));if(al>0.01)for(let i=0;i<20;i++){const an=TAU*i/20,d=25+(80+(i%4)*32)*ep,sc=(0.75+(i%3)*0.2)+((1.6+(i%3)*0.3)-(0.75+(i%3)*0.2))*p;c.save();c.globalAlpha=al;c.translate(cx+Math.cos(an)*d,cy-30+Math.sin(an)*d*0.6);c.scale(sc,sc);c.drawImage(VFX.rulai_dust,-32,-32);c.restore()}}
+   {const gl=Math.max(0,1-q/0.9);if(gl>0.01){c.save();c.globalCompositeOperation='lighter';c.translate(cx,cy-5);c.scale(1,0.56);const g3=c.createRadialGradient(0,0,10,0,0,230);g3.addColorStop(0,'rgba(150,100,255,'+(0.62*gl)+')');g3.addColorStop(1,'rgba(80,40,190,0)');c.fillStyle=g3;c.beginPath();c.arc(0,0,230,0,TAU);c.fill();c.restore()}}
+   if(vok('qy_rock')){const p=Math.min(1,q/0.55),ep=1-(1-p)*(1-p),al=1-Math.max(0,Math.min(1,(q-0.18)/0.55));if(al>0.01)for(let i=0;i<28;i++){const an=TAU*i/28,d=(110+(i%5)*25)*ep,sc=0.55+(i%4)*0.12;c.save();c.globalAlpha=al;c.translate(cx+Math.cos(an)*d,cy-35+13+Math.sin(an)*d*0.6);c.rotate(an+3*p);c.scale(sc,sc);c.drawImage(VFX.qy_rock,-24,-24);c.restore()}}
+   if(vok('qy_dust')){const p=Math.min(1,q/0.75),ep=1-(1-p)*(1-p),al=0.8*(1-Math.max(0,Math.min(1,(q-0.15)/0.75)));if(al>0.01)for(let i=0;i<20;i++){const an=TAU*i/20,d=25+(80+(i%4)*32)*ep,sc=(0.75+(i%3)*0.2)+((1.6+(i%3)*0.3)-(0.75+(i%3)*0.2))*p;c.save();c.globalAlpha=al;c.translate(cx+Math.cos(an)*d,cy-30+Math.sin(an)*d*0.6);c.scale(sc,sc);c.drawImage(VFX.qy_dust,-32,-32);c.restore()}}
    c.restore()}}
  else if(z.kind==='staffx'&&vok('wk_staff')){/* gậy trên tay (tư thế đâm, đầu sau ở -27, cao 66) dài ra và to lên */const L=40+z.len*(z.e||0)+27,w=0.6+0.75*(z.e||0);c.save();c.imageSmoothingEnabled=false;c.translate(Math.round(P.x+z.fc*(-27)),Math.round(P.y-63));c.scale(z.fc,1);c.rotate(z.ta-Math.PI/2);c.scale(w,1);drawWkStaff(c,L,'wk_staff');const gk=z.t/z.T,gp_=(gk-0.28)/0.44;if(gp_>0&&gp_<1)staffGlow(c,L,'wk_staff',Math.sin(gp_*Math.PI)*0.9,gp_);c.restore()}
  else if(z.kind==='staff'&&vok('wk_staff')){/* gậy dài ra: cầm ở tay, đầu gậy quét theo z.cur */const a2=z.cur||z.a0;c.save();c.imageSmoothingEnabled=false;c.translate(Math.round(z.x),Math.round(z.y-30));c.rotate(a2-Math.PI/2);c.translate(0,-30);drawWkStaff(c,z.len+30,'wk_staff');c.restore()}

diff --git a/cong_cu/claude/qy_assets.py b/cong_cu/claude/qy_assets.py
@@ -1,5 +1,5 @@
 #!/usr/bin/env python3
-"""VFX Thiên Cương Môn (Quyền), tự vẽ pixel bằng code (0 lượt PixelLab): trắng bạc + đỏ sẫm.
+"""VFX Thiên Cương Môn (Quyền), tự vẽ pixel bằng code (0 lượt PixelLab): trắng tím + tím lam (đổi 25/11 từ trắng bạc + đỏ sẫm).
  qy_an.png  = Thiên Cương ấn dưới đất (vòng bạc, 7 sao Bắc Đẩu nối vạch, vòng đỏ, ba nan)
  qy_hit.png = chớp va chạm quyền: 6 khung 96x96 (sheet 3 cột x 2 hàng): lõi trắng nổ + vòng đỏ + tia tỏa
 Chạy: python3 cong_cu/claude/qy_assets.py"""
@@ -7,12 +7,12 @@ import math,random
 from PIL import Image,ImageDraw,ImageFilter
 import numpy as np
 OUT='game/assets/vfx/'
-SIL=(226,228,236,255);SIL2=(150,154,170,255);RED=(176,36,44,255);RED2=(110,20,28,255);WH=(255,255,255,255)
+SIL=(214,200,255,255);SIL2=(130,112,214,255);RED=(120,72,236,255);RED2=(62,34,150,255);WH=(255,255,255,255)
 # ---- ấn ----
 S=220;C=110
 img=Image.new('RGBA',(S,S),(0,0,0,0))
 bg=Image.new('RGBA',(S,S),(0,0,0,0));bd=ImageDraw.Draw(bg)
-bd.ellipse((C-104,C-104,C+104,C+104),fill=(150,154,170,40));bd.ellipse((C-62,C-62,C+62,C+62),fill=(176,36,44,52))
+bd.ellipse((C-104,C-104,C+104,C+104),fill=(130,112,214,40));bd.ellipse((C-62,C-62,C+62,C+62),fill=(120,72,236,52))
 img=Image.alpha_composite(bg,img);d=ImageDraw.Draw(img)
 def ring(r,w,col):d.ellipse((C-r,C-r,C+r,C+r),outline=col,width=w)
 ring(106,2,SIL);ring(101,1,SIL2);ring(64,2,RED);ring(58,1,RED2)
@@ -41,11 +41,11 @@ for f in range(N):
     r=6+k*34;al=int(255*(1-k**1.6))
     core=int(16*(1-k)+3)
     fd.ellipse((cx-core,cy-core,cx+core,cy+core),fill=(255,255,255,al))
-    fd.ellipse((cx-r,cy-r,cx+r,cy+r),outline=(220,226,240,al),width=2)
-    r2=r*0.62;fd.ellipse((cx-r2,cy-r2,cx+r2,cy+r2),outline=(176,36,44,int(al*0.95)),width=2)
+    fd.ellipse((cx-r,cy-r,cx+r,cy+r),outline=(206,196,255,al),width=2)
+    r2=r*0.62;fd.ellipse((cx-r2,cy-r2,cx+r2,cy+r2),outline=(120,72,236,int(al*0.95)),width=2)
     for ang,ln in rays:
         l0=r*0.6;l1=r*(0.9+0.55*ln)
-        fd.line((cx+math.cos(ang)*l0,cy+math.sin(ang)*l0,cx+math.cos(ang)*l1,cy+math.sin(ang)*l1),fill=(255,236,230,int(al*0.9)),width=1)
+        fd.line((cx+math.cos(ang)*l0,cy+math.sin(ang)*l0,cx+math.cos(ang)*l1,cy+math.sin(ang)*l1),fill=(232,224,255,int(al*0.9)),width=1)
     gl=fr.filter(ImageFilter.GaussianBlur(2));g=np.array(gl).astype(float);g[...,3]*=0.6
     fr=Image.alpha_composite(Image.fromarray(g.clip(0,255).astype(np.uint8)),fr)
     sheet.alpha_composite(fr,((f%3)*W,(f//3)*W))

diff --git a/cong_cu/claude/qy_tim.py b/cong_cu/claude/qy_tim.py
@@ -1,0 +1,20 @@
+"""Quyền (25/11): nhuộm VFX gói Wuxia sang tím-lam: bàn tay Như Lai -> bàn tay quỷ (qy_hand), vết chưởng, bụi, đá, chuông Kim Cương.
+Giữ nguyên alpha và hình, chỉ ánh xạ độ sáng -> bảng màu. Chạy: python3 cong_cu/claude/qy_tim.py"""
+from PIL import Image
+import numpy as np
+R='/home/user/hoathan/game/assets/vfx/'
+def tint(src,dst,stops,gain=1.15):
+    a=np.array(Image.open(R+src).convert('RGBA')).astype(float)
+    lum=(a[:,:,0]*0.3+a[:,:,1]*0.59+a[:,:,2]*0.11)/255
+    o=np.zeros_like(a)
+    for ch in range(3):
+        o[:,:,ch]=np.interp(np.clip(lum*gain,0,1),[s[0] for s in stops],[s[1][ch] for s in stops])
+    o[:,:,3]=a[:,:,3]
+    Image.fromarray(o.astype('uint8')).save(R+dst,optimize=True);print(dst)
+HAND=[(0,(8,4,26)),(0.25,(46,22,110)),(0.5,(104,56,214)),(0.72,(168,120,255)),(0.88,(218,196,255)),(1,(250,244,255))]
+tint('rulai_hand.png','qy_hand.png',HAND)
+tint('rulai_crater.png','qy_crater.png',HAND,1.0)
+tint('rulai_dust.png','qy_dust.png',[(0,(30,16,70)),(0.5,(96,70,170)),(1,(200,184,255))])
+tint('rulai_rock.png','qy_rock.png',[(0,(10,6,28)),(0.5,(60,40,120)),(1,(150,124,230))])
+tint('pm_bell.png','qy_bell.png',HAND)
+tint('van_vang.png','qy_van.png',[(0,(20,8,60)),(0.5,(120,80,230)),(1,(236,224,255))],1.0)

diff --git a/CLAUDE.md b/CLAUDE.md
@@ -664,3 +664,8 @@ Quyết định (chủ game không chọn riêng nên lấy đề xuất): hình
 **Cũng đã làm trong phiên:** Quyền X (giơ tay bằng code + chữ VẠN + Như Lai Thần Chưởng dựng đứng), 6 map Âm Giới nền ChatGPT (`bg_*.png`, `am_quanmon` cho tầng 3), thư viện ảnh VFX (`nguon/tham_chieu/thu_vien_vfx/`).
 **Chưa quyết / việc treo:** (1) nhờ ChatGPT vẽ 6 khung giơ tay cho X (prompt: `nguon/master_amgioi/PROMPT_CHATGPT_QUYEN_X.md`); (2) nhờ ChatGPT vẽ map Luân Hồi Đài tầng 18 (1600×1140) đồng phong cách; (3) xóa 11 file VFX không dùng nếu chủ game đồng ý; (4) cân bằng số liệu (chủ game dặn làm SAU); (5) 6 nền map thêm ~5,4 MB tải đầu, chưa thử iPhone thật; nền map chỉ là hình nên đi xuyên vào vùng cổng/tường được.
 **Lưu ý khi test:** sau `#amGo` chờ ~1,5 s THẬT rồi mới `__step`; phím X cần ~60 bước ổn định. Hook Stop báo "unpushed commits" là báo sai, kiểm bằng `git ls-remote origin claude/youthful-fermat-6hovsq`. PixelLab còn ~1.420 lượt, vẫn CẤM trừ khi chủ game cho phép từng việc.
+
+## QUYỀN ĐỔI MÀU TÍM-LAM, BÀN TAY QUỶ; MINH VƯƠNG SANG TRƯỢNG (25/11 đêm, chủ game ra lệnh)
+- **Minh Vương Chưởng Ấn bỏ khỏi Quyền, chuyển sang Trượng** (`p4`, phím C, trước đó là `y3`; vẫn chưa lĩnh ngộ ở lvl 0, số liệu TẠM). Quyền giữ nội tại Kim Chung Hộ Thể.
+- **Màu chủ đạo Quyền: tím-lam** (thay trắng bạc + đỏ). Tô bằng code, 0 lượt PixelLab: `cong_cu/claude/qy_assets.py` (qy_hit, qy_an dựng lại bảng màu tím; bản trắng-đỏ cũ ở `nguon/vfx_goc/qy_*_trangdo.png`) và `cong_cu/claude/qy_tim.py` (ánh xạ độ sáng → tím cho `qy_hand` (bàn tay), `qy_crater`, `qy_dust`, `qy_rock`, `qy_bell` (chuông Kim Chung, có `SPX.qy_bell`), `qy_van` (chữ VẠN)). Ảnh `rulai_*`, `pm_*` GỐC vàng vẫn còn cho boss slam và Trượng. Mọi màu vàng/đỏ trong khối kit Quyền, zone `qypalm` và `kimChung` đã đổi tím.
+- **"Bàn tay quỷ" mới chỉ là NHUỘM TÍM-ĐEN bàn tay Như Lai** (cùng hình bàn tay Phật thon, năm ngón thường). Chưa phải bàn tay quỷ thật (móng vuốt, gân, xương). Muốn đúng hình quỷ thì cần PixelLab VFX/ChatGPT vẽ lại sheet bàn tay (đang cấm PixelLab, chờ chủ game cho phép hoặc đưa ảnh). Ảnh: `nguon/tham_chieu/quyen_tim_ban_tay_quy.png`, `truong_minhvuong_phim_c.png`.
